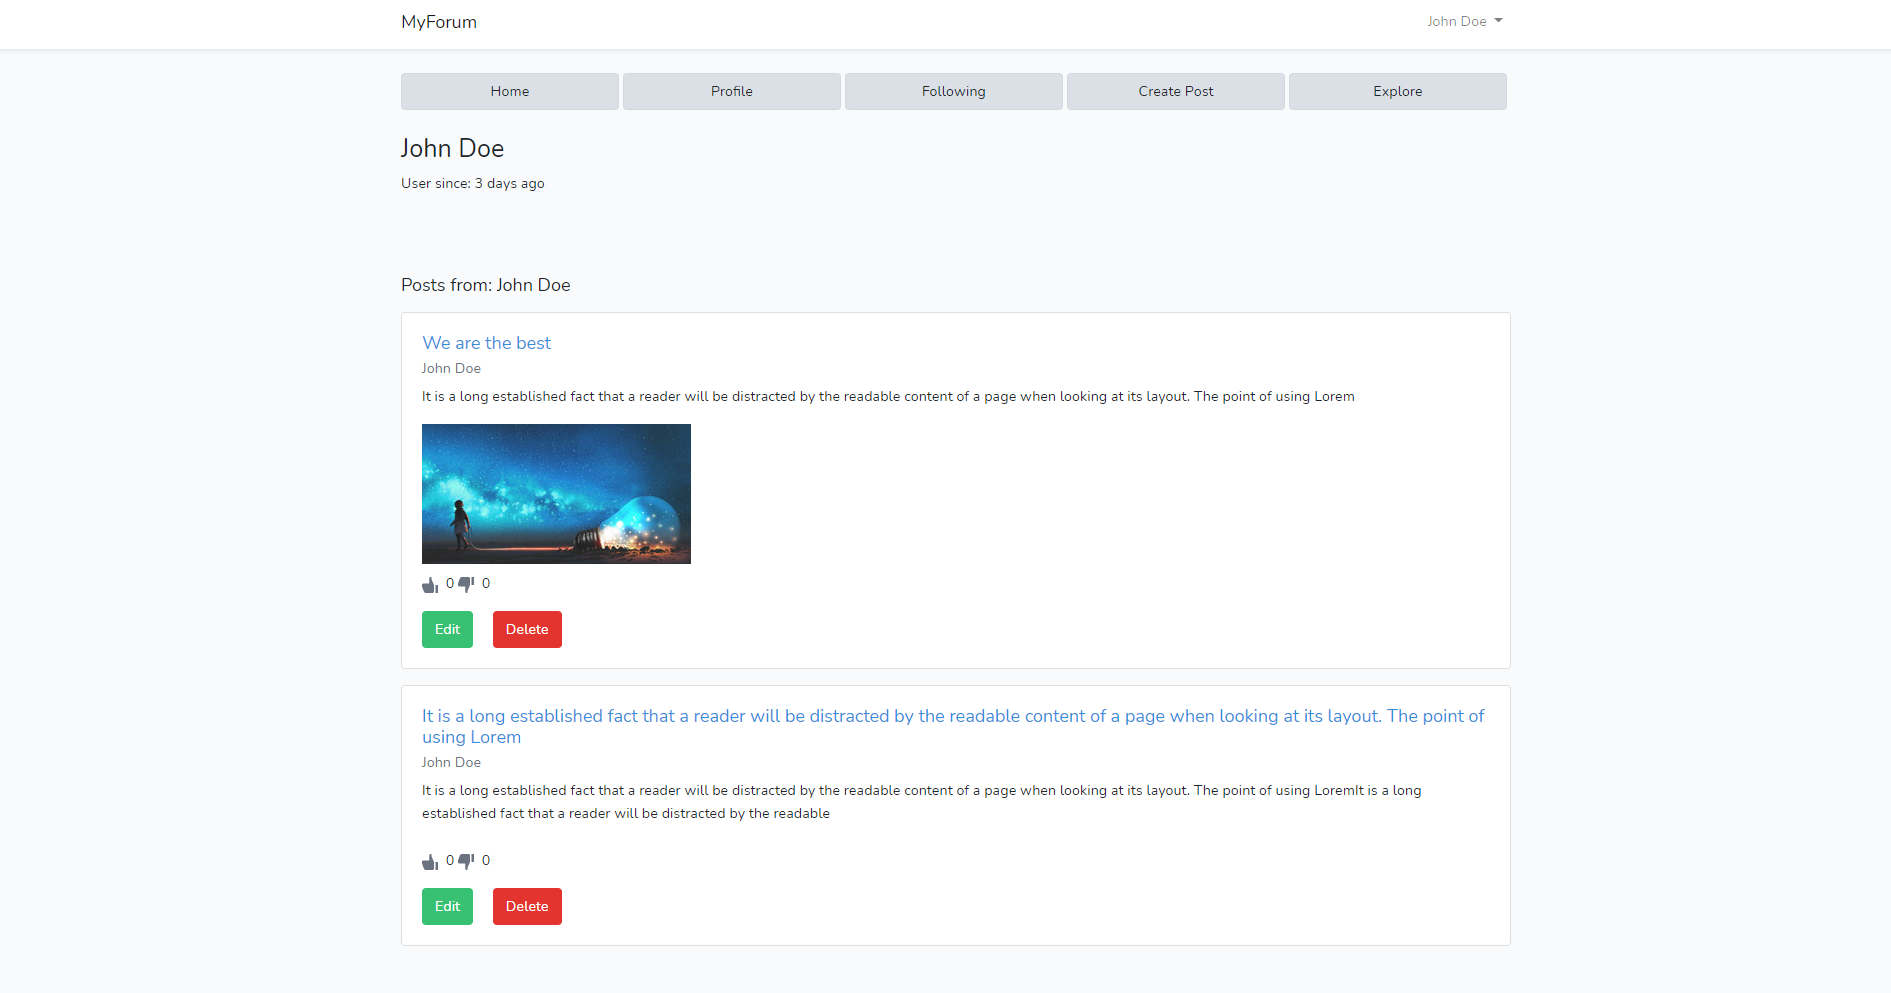
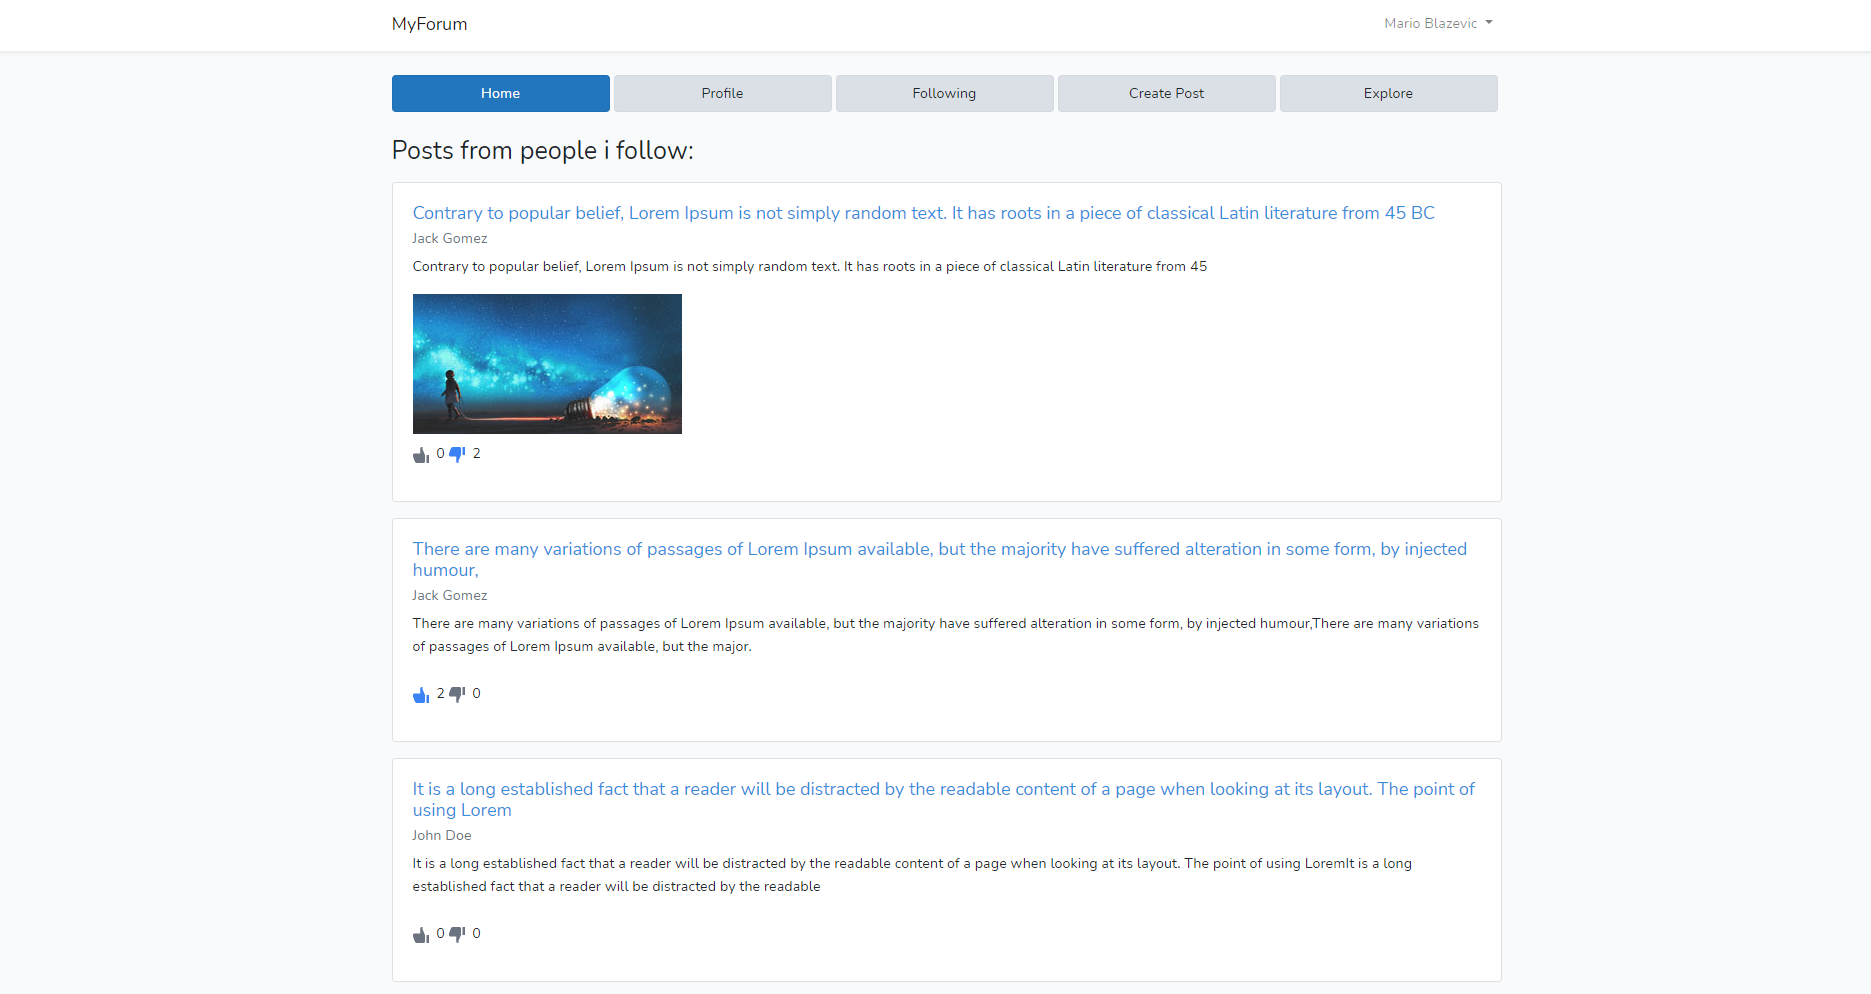
Edited forum

diff --git a/resources/views/components/links.blade.php b/resources/views/components/links.blade.php
@@ -1,7 +1,7 @@
 <div class="links mb-4 d-flex justify-content-between">
-    <a href="{{ route('posts') }}" class="btn btn-light btn-md active flex-1 mr-1" role="button" aria-pressed="true">Home</a>
-    <a href="{{ route('profile', auth()->user()) }}" class="btn btn-light btn-md active flex-1 mr-1" role="button" aria-pressed="true">Profile</a>
-    <a href="{{ route('following-users') }}" class="btn btn-light btn-md active flex-1 mr-1" role="button" aria-pressed="true">Following</a>
-    <a href="{{ route('create-post') }}" class="btn btn-light btn-md active flex-1 mr-1" role="button" aria-pressed="true">Create Post</a>
-    <a href="{{ route('explore-users') }}" class="btn btn-light btn-md active flex-1 mr-1" role="button" aria-pressed="true">Explore</a>
+    <a href="{{ route('posts') }}" class="btn btn-md active flex-1 mr-1 {{ Request::path() === 'posts' ? 'btn-primary' : 'btn-light' }}" role="button" aria-pressed="true">Home</a>
+    <a href="{{ route('profile', auth()->user()) }}" class="btn  btn-md active flex-1 mr-1 {{ Request::is('profile/*') ? 'btn-primary' : 'btn-light' }}" role="button" aria-pressed="true">Profile</a>
+    <a href="{{ route('following-users') }}" class="btn  btn-md active flex-1 mr-1 {{ Request::path() === 'following' ? 'btn-primary' : 'btn-light' }}" role="button" aria-pressed="true">Following</a>
+    <a href="{{ route('create-post') }}" class="btn btn-md active flex-1 mr-1 {{ Request::is('posts/create') ? 'btn-primary' : 'btn-light' }}" role="button" aria-pressed="true">Create Post</a>
+    <a href="{{ route('explore-users') }}" class="btn btn-md active flex-1 mr-1 {{ Request::path() === 'explore' ? 'btn-primary' : 'btn-light' }}" role="button" aria-pressed="true">Explore</a>
 </div>
